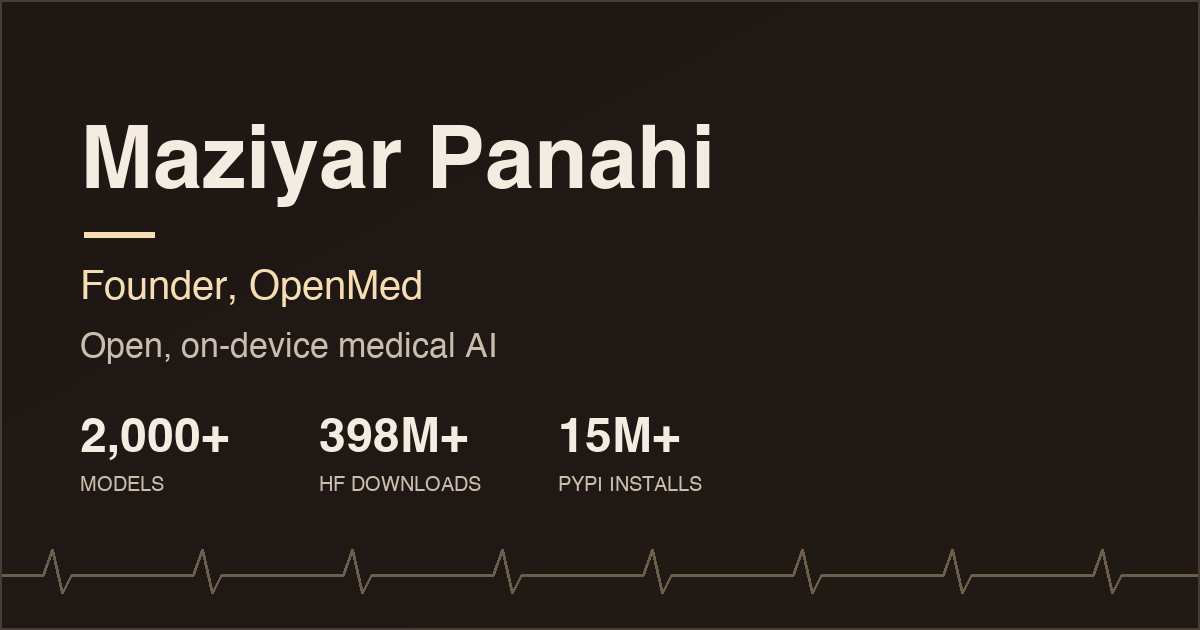
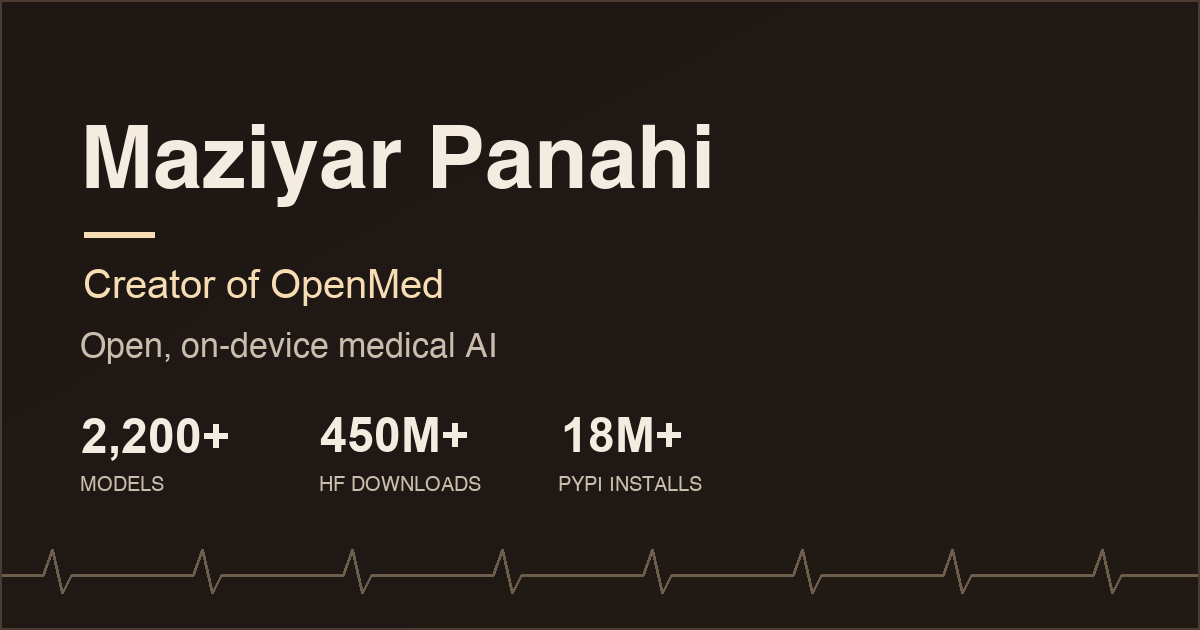
Describe OpenMed as a project I created, not founded
OpenMed is an open-source project with outside contributors, so the site
and profile now say "creator" rather than "founder", and drop the
company-style mission line.

- Site title, meta tags, eyebrow, share card and JSON-LD say "Creator of
  OpenMed"; the JSON-LD credits OpenMed as SoftwareSourceCode with a creator
  rather than listing it as an employer.
- Numbers match the sources as of 8 Oct 2026: 2,200+ models, 450M+ HF
  downloads, 18M+ PyPI installs, 85 contributors, and "10 of 12" datasets as
  in the paper. The language count now uses the README's 42 routes
  (35 model-backed).
- The Ask-AI prompts use the same facts.
- The profile README shows MaziyarPanahi and OpenMed side by side instead of
  "combined ... all authored by me".
- New /llms.txt with the same facts.

diff --git a/site/index.html b/site/index.html
@@ -4,21 +4,21 @@
 <head>
   <meta charset="utf-8" />
   <meta name="viewport" content="width=device-width, initial-scale=1" />
-  <title>Maziyar Panahi | Founder, OpenMed</title>
+  <title>Maziyar Panahi | Creator of OpenMed</title>
   <meta name="description"
-    content="Maziyar Panahi is the founder of OpenMed — open, on-device medical AI: 2,000+ Apache-2.0 clinical models that run in a hospital's own walls, on a Mac, or on an iPhone." />
+    content="Maziyar Panahi created OpenMed — open, on-device medical AI: 2,200+ Apache-2.0 clinical models that run in a hospital's own walls, on a Mac, or on an iPhone." />
   <meta name="theme-color" content="#f6efe6" />
-  <meta property="og:title" content="Maziyar Panahi | Founder, OpenMed" />
+  <meta property="og:title" content="Maziyar Panahi | Creator of OpenMed" />
   <meta property="og:description"
-    content="Founder of OpenMed. Open, on-device medical AI — 2,000+ Apache-2.0 models, 15M+ PyPI installs, from hospital servers to iPhones." />
+    content="Creator of OpenMed. Open, on-device medical AI — 2,200+ Apache-2.0 models, 18M+ PyPI installs, from hospital servers to iPhones." />
   <meta property="og:type" content="website" />
   <meta property="og:url" content="https://maziyarpanahi.com" />
   <meta property="og:image" content="https://maziyarpanahi.com/assets/og.png" />
   <meta name="twitter:card" content="summary_large_image" />
-  <meta name="twitter:title" content="Maziyar Panahi | Founder, OpenMed" />
+  <meta name="twitter:title" content="Maziyar Panahi | Creator of OpenMed" />
   <meta name="twitter:image" content="https://maziyarpanahi.com/assets/og.png" />
   <meta name="twitter:description"
-    content="Founder of OpenMed. Open, on-device medical AI — 2,000+ Apache-2.0 models, 15M+ PyPI installs, from hospital servers to iPhones." />
+    content="Creator of OpenMed. Open, on-device medical AI — 2,200+ Apache-2.0 models, 18M+ PyPI installs, from hospital servers to iPhones." />
   <link rel="canonical" href="https://maziyarpanahi.com" />
   <link rel="icon" href="./favicon.svg" type="image/svg+xml" />
   <link rel="shortcut icon" href="./favicon.svg" type="image/svg+xml" />
@@ -35,22 +35,33 @@
   <script type="application/ld+json">
       {
         "@context": "https://schema.org",
-        "@type": "Person",
-        "name": "Maziyar Panahi",
-        "jobTitle": "Founder, OpenMed",
-        "url": "https://maziyarpanahi.com",
-        "sameAs": [
-          "https://github.com/MaziyarPanahi",
-          "https://huggingface.co/MaziyarPanahi",
-          "https://huggingface.co/OpenMed",
-          "https://www.linkedin.com/in/maziyarpanahi",
-          "https://x.com/MaziyarPanahi",
-          "https://scholar.google.com/citations?user=Uaeq3tMAAAAJ"
-        ],
-        "worksFor": [
-          { "@type": "Organization", "name": "OpenMed", "url": "https://openmed.life" },
-          { "@type": "Organization", "name": "Arcee AI" },
-          { "@type": "Organization", "name": "CNRS" }
+        "@graph": [
+          {
+            "@type": "Person",
+            "@id": "https://maziyarpanahi.com/#person",
+            "name": "Maziyar Panahi",
+            "url": "https://maziyarpanahi.com",
+            "description": "Creator of OpenMed, an open-source project for medical AI.",
+            "sameAs": [
+              "https://github.com/maziyarpanahi",
+              "https://huggingface.co/MaziyarPanahi",
+              "https://www.linkedin.com/in/maziyarpanahi",
+              "https://x.com/MaziyarPanahi",
+              "https://scholar.google.com/citations?user=Uaeq3tMAAAAJ"
+            ],
+            "worksFor": [
+              { "@type": "Organization", "name": "Arcee AI" },
+              { "@type": "Organization", "name": "CNRS" }
+            ]
+          },
+          {
+            "@type": "SoftwareSourceCode",
+            "name": "OpenMed",
+            "url": "https://openmed.life",
+            "codeRepository": "https://github.com/maziyarpanahi/openmed",
+            "license": "https://www.apache.org/licenses/LICENSE-2.0",
+            "creator": { "@id": "https://maziyarpanahi.com/#person" }
+          }
         ]
       }
     </script>
@@ -70,7 +81,7 @@
     </div>
 
     <header class="hero reveal">
-      <p class="eyebrow">Founder, OpenMed</p>
+      <p class="eyebrow">Creator of OpenMed</p>
       <h1>Maziyar Panahi</h1>
 
       <nav class="social-row" aria-label="Social profiles">
@@ -115,9 +126,9 @@
         Building open, on-device medical AI &mdash; OpenMed &middot; Arcee AI &middot; CNRS
       </p>
       <p class="hero-copy">
-        I build OpenMed: open-source medical AI that runs where the data lives &mdash; a hospital's own servers, a
-        Mac, an iPhone. 2,000+ Apache-2.0 models, 398M+ downloads on Hugging Face, and 15M+ installs on PyPI &mdash;
-        up from 4M just three months ago &mdash; with 50+ contributors and zero paid marketing.
+        I created OpenMed: open-source medical AI that runs where the data lives &mdash; a hospital's own servers, a
+        Mac, an iPhone. 2,200+ Apache-2.0 models, 450M+ downloads on Hugging Face, 18M+ installs on PyPI, and 85
+        contributors so far &mdash; with zero paid marketing.
       </p>
       <p class="hero-copy">
         Alongside OpenMed, I work in post-training at Arcee AI &mdash; developing open-weight models in the U.S. and
@@ -169,21 +180,21 @@
       <section class="reveal" id="openmed">
         <h2>OpenMed</h2>
         <p class="section-intro">
-          The open-source standard for clinical AI: 2,000+ Apache-2.0 models for de-identification, clinical NER,
-          coding, and QA &mdash; built to run on-prem, in your VPC, on a Mac, or on an iPhone. 398M+ downloads on
+          Open-source clinical AI: 2,200+ Apache-2.0 models for de-identification, clinical NER,
+          coding, and QA &mdash; built to run on-prem, in your VPC, on a Mac, or on an iPhone. 450M+ downloads on
           Hugging Face, 5,000+ GitHub stars, and the #1 most-referenced organization in Hugging Face's State of
           Open Source report (Spring 2026).
         </p>
         <ul class="initiative-list">
           <li><a href="https://github.com/maziyarpanahi/openmed" target="_blank" rel="noreferrer">openmed on
-              GitHub</a> &mdash; Python package, CLI, and MLX/Swift on-device engine; near-weekly releases, 50+
+              GitHub</a> &mdash; Python package, CLI, and MLX/Swift on-device engine; near-weekly releases, 85
             contributors</li>
           <li><a href="https://huggingface.co/OpenMed" target="_blank" rel="noreferrer">OpenMed on Hugging
               Face</a> &mdash; the model hub</li>
           <li><a href="https://huggingface.co/papers/2508.01630" target="_blank" rel="noreferrer">OpenMed NER</a>
-            &mdash; state-of-the-art on 12 public biomedical benchmarks</li>
+            &mdash; state of the art on 10 of 12 public biomedical NER datasets</li>
           <li><a href="https://github.com/maziyarpanahi/openmed/releases" target="_blank"
-              rel="noreferrer">OpenMed 2.0</a> &mdash; 56 languages, ~51 offline ID validators, and a k-anonymity
+              rel="noreferrer">OpenMed releases</a> &mdash; multilingual PII across 42 language routes (35 model-backed), ~51 offline ID validators, and a k-anonymity
             release-risk workflow that refuses to auto-sign expert determinations</li>
         </ul>
         <p class="section-intro">
@@ -195,8 +206,8 @@
       <section class="reveal" id="openmed-agent">
         <h2>OpenMed Agent</h2>
         <p class="section-intro">
-          The enterprise layer built on the open-source core &mdash; a terminal-native, inspectable clinical AI
-          agent that is privacy-first, reviewer-gated, and running on iPhone. Early access is open at
+          A clinical AI agent built on OpenMed's open models &mdash; terminal-native, inspectable,
+          privacy-first, reviewer-gated, and running on iPhone. Early access is open at
           <a href="https://agent.openmed.life" target="_blank" rel="noreferrer">agent.openmed.life</a>.
         </p>
         <ul class="initiative-list">
@@ -459,14 +470,13 @@
           cloud-architect years at Multimedia University and the University of Malaya.
         </p>
         <p>
-          Before OpenMed, I spent seven years at John Snow Labs leading Spark NLP &mdash; 150M+ downloads and
+          Before OpenMed, from 2019 to 2025, I was at John Snow Labs leading Spark NLP &mdash; 150M+ downloads and
           100,000+ pretrained models and pipelines. Since 2024 I've also been in post-training at Arcee AI: GRPO,
           RL environments, and the INTELLECT-1 and Trinity technical reports.
         </p>
         <p>
-          The mission hasn't moved: build the default open engine for every hospital, pharma company, and
-          public-health agency that needs a secure, sovereign medical-intelligence platform &mdash; and keep the
-          models, the training, and their limits out in the open. The longer version is on
+          What hasn't moved: medical AI should be open, auditable, and able to run inside a hospital's own walls
+          &mdash; with the models, the training, and their limits out in the open. The longer version is on
           <a href="https://www.linkedin.com/in/maziyarpanahi" target="_blank" rel="noreferrer">LinkedIn</a>.
         </p>
       </section>

diff --git a/site/assets/main.js b/site/assets/main.js
@@ -54,10 +54,10 @@ const AI_TARGETS = {
 };
 
 const AI_PROMPTS = {
-  chatgpt: `Give me a deep, structured profile of Maziyar Panahi using his personal website https://maziyarpanahi.com as the primary source, and his Hugging Face https://huggingface.co/MaziyarPanahi, the OpenMed org https://huggingface.co/OpenMed, his GitHub https://github.com/maziyarpanahi/openmed, his LinkedIn https://www.linkedin.com/in/maziyarpanahi, and his X https://x.com/MaziyarPanahi as supporting sources. Cover: 1) Who he is — founder of OpenMed, in post-training at Arcee AI (open-weight models developed in the U.S. and released for everyone), and AI & HPC infrastructure at CNRS, after 16 years in public academia. 2) OpenMed — the open-source standard for clinical AI: 2,000+ Apache-2.0 medical models, 398M+ downloads on Hugging Face, 15M+ PyPI installs, 5,000+ GitHub stars, named the #1 most-referenced organization in Hugging Face's State of Open Source report (Spring 2026), with an on-device MLX/Swift engine that runs on iPhone and Mac. 3) OpenMed Agent — the enterprise layer, a terminal-native, reviewer-gated clinical AI agent in early access at agent.openmed.life. 4) Welna — his consumer iOS app that reads Apple Health data and redacts identifiers on-device. 5) His history — seven years leading Spark NLP to 150M+ downloads at John Snow Labs (2019-2025). 6) His stance — medical AI must be open, auditable, sovereign, and on-device — and what he's building next: reasoning models and multimodal medical AI. Be specific about which fact comes from which source.`,
-  claude: `Read Maziyar Panahi's personal site https://maziyarpanahi.com as the primary source, with his Hugging Face https://huggingface.co/MaziyarPanahi, OpenMed https://huggingface.co/OpenMed, GitHub https://github.com/maziyarpanahi/openmed, LinkedIn https://www.linkedin.com/in/maziyarpanahi, and X https://x.com/MaziyarPanahi as support. First, give me a structured profile: who he is (founder of OpenMed; post-training at Arcee AI; AI/HPC at CNRS), OpenMed and its scale (2,000+ Apache-2.0 models, 398M+ Hugging Face downloads, 15M+ PyPI installs, on-device MLX engine), OpenMed Agent, Welna, and his Spark NLP history. Then — more important — synthesize his thesis that medical AI must be open, auditable, sovereign, and increasingly on-device, with its limits enforced in code (refusal and review gates rather than terms-of-service promises), and give a balanced assessment: what's most compelling about it, the strongest counterarguments, and where the open, on-device approach has the most to prove against closed clinical AI.`,
-  perplexity: `Research Maziyar Panahi and give me a sourced, well-cited profile. Start from his personal site https://maziyarpanahi.com and Hugging Face https://huggingface.co/MaziyarPanahi, then corroborate across the web. Verify and cite: his founding of OpenMed and its scale (2,000+ Apache-2.0 medical models, 398M+ Hugging Face downloads, 15M+ PyPI installs); OpenMed being named the #1 most-referenced organization in Hugging Face's State of Open Source report (Spring 2026); the OpenMed NER paper's state-of-the-art results (arXiv 2508.01630); his post-training work at Arcee AI (INTELLECT-1, Trinity technical reports); his seven years leading the Spark NLP ecosystem to 150M+ downloads; and his AI/HPC infrastructure work at CNRS / ISC-PIF. Link a source for each major claim, and flag anything you can't independently corroborate.`,
-  grok: `Profile Maziyar Panahi (@MaziyarPanahi on X) with an emphasis on what he's doing right now. Use his personal site https://maziyarpanahi.com and Hugging Face https://huggingface.co/MaziyarPanahi for grounding, then use his X timeline to capture his latest posts, the models and tools he's shipping this month, and his current voice on open, on-device medical AI — OpenMed, OpenMed Agent, Welna, and his post-training work at Arcee AI. Give me a short who-he-is, then a "what he's shipping now" section from his recent activity, and the themes he keeps returning to (local-first AI, refusal and review gates in clinical agents, community-driven open source).`,
+  chatgpt: `Give me a deep, structured profile of Maziyar Panahi using his personal website https://maziyarpanahi.com as the primary source, and his Hugging Face https://huggingface.co/MaziyarPanahi, the OpenMed org https://huggingface.co/OpenMed, the OpenMed repository https://github.com/maziyarpanahi/openmed, his LinkedIn https://www.linkedin.com/in/maziyarpanahi, and his X https://x.com/MaziyarPanahi as supporting sources. Cover: 1) Who he is — creator of OpenMed, an open-source medical AI project; in post-training at Arcee AI (open-weight models developed in the U.S. and released for everyone); and AI & HPC infrastructure at CNRS, after 16 years in public academia. 2) OpenMed — open-source clinical AI he started in July 2025: 2,200+ Apache-2.0 medical models, 450M+ downloads on Hugging Face, 18M+ PyPI installs, 85 contributors, with an on-device MLX/Swift engine that runs on iPhone and Mac. 3) OpenMed Agent — a terminal-native, reviewer-gated clinical AI agent built on OpenMed's open models, in early access at agent.openmed.life. 4) Welna — his consumer iOS app that reads Apple Health data and redacts identifiers on-device. 5) His history — leading Spark NLP at John Snow Labs (2019–2025). 6) His stance — medical AI must be open, auditable, sovereign, and on-device — and what OpenMed is building next: reasoning models and multimodal medical AI. Be specific about which fact comes from which source.`,
+  claude: `Read Maziyar Panahi's personal site https://maziyarpanahi.com as the primary source, with his Hugging Face https://huggingface.co/MaziyarPanahi, OpenMed https://huggingface.co/OpenMed, GitHub https://github.com/maziyarpanahi/openmed, LinkedIn https://www.linkedin.com/in/maziyarpanahi, and X https://x.com/MaziyarPanahi as support. First, give me a structured profile: who he is (creator of OpenMed, an open-source project; post-training at Arcee AI; AI/HPC at CNRS), OpenMed and its scale (2,200+ Apache-2.0 models, 450M+ Hugging Face downloads, 18M+ PyPI installs, 85 contributors, on-device MLX engine), OpenMed Agent, Welna, and his Spark NLP history. Then — more important — synthesize his thesis that medical AI must be open, auditable, sovereign, and increasingly on-device, with its limits enforced in code (refusal and review gates rather than terms-of-service promises), and give a balanced assessment: what's most compelling about it, the strongest counterarguments, and where the open, on-device approach has the most to prove against closed clinical AI.`,
+  perplexity: `Research Maziyar Panahi and give me a sourced, well-cited profile. Start from his personal site https://maziyarpanahi.com and Hugging Face https://huggingface.co/MaziyarPanahi, then corroborate across the web. Verify and cite: that he created OpenMed, an open-source medical AI project, and its scale (2,200+ Apache-2.0 medical models, 450M+ Hugging Face downloads, 18M+ PyPI installs, 85 GitHub contributors); OpenMed's ranking in Hugging Face's State of Open Source report (Spring 2026); the OpenMed NER paper's results (state of the art on 10 of 12 public biomedical NER datasets, arXiv 2508.01630); his post-training work at Arcee AI (INTELLECT-1, Trinity technical reports); his years leading Spark NLP at John Snow Labs (2019–2025); and his AI/HPC infrastructure work at CNRS / ISC-PIF. Link a source for each major claim, and flag anything you can't independently corroborate.`,
+  grok: `Profile Maziyar Panahi (@MaziyarPanahi on X) with an emphasis on what he's doing right now. Use his personal site https://maziyarpanahi.com and Hugging Face https://huggingface.co/MaziyarPanahi for grounding, then use his X timeline to capture his latest posts, the models and tools he's shipping this month, and his current voice on open, on-device medical AI — OpenMed (the open-source project he created), OpenMed Agent, Welna, and his post-training work at Arcee AI. Give me a short who-he-is, then a "what he's shipping now" section from his recent activity, and the themes he keeps returning to (local-first AI, refusal and review gates in clinical agents, community-driven open source).`,
 };
 
 document.querySelectorAll("a[data-ai]").forEach((link) => {

diff --git a/scripts/render_readme.py b/scripts/render_readme.py
@@ -19,6 +19,8 @@ import sys
 from datetime import datetime
 from pathlib import Path
 
+from fetch_hf_stats import comma, human
+
 START = "<!-- HF-STATS:START -->"
 END = "<!-- HF-STATS:END -->"
 
@@ -39,22 +41,38 @@ def block(data: dict) -> str:
         for model in data["top_models"]
     )
 
-    names = [f"[{a}](https://huggingface.co/{a})" for a in data["accounts"]]
-    accounts = " and ".join([", ".join(names[:-1]), names[-1]] if len(names) > 2 else names)
+    # One column per account, so the personal namespace and the OpenMed org -
+    # an open-source project with its own contributors - are never summed.
+    accounts = data["accounts"]
+    per = data["per_account"]
+
+    def row(label: str, key: str, fmt, bold: bool = False) -> str:
+        cells = [fmt(per[a][key]) for a in accounts]
+        if bold:
+            cells = [f"**{c}**" for c in cells]
+        return f"| **{label}** | " + " | ".join(cells) + " |"
+
+    header = "| 🤗 Hugging Face | " + " | ".join(
+        f"[{a}](https://huggingface.co/{a})" for a in accounts
+    ) + " |"
+    align = "| --- | " + " | ".join("---:" for _ in accounts) + " |"
+    table = "\n".join(
+        [
+            header,
+            align,
+            row("Models published", "models", comma),
+            row("Datasets published", "datasets", comma),
+            row("Downloads, all time", "downloads_all_time", human, bold=True),
+            row("Downloads, last 30 days", "downloads_30d", human),
+        ]
+    )
 
     return f"""<!-- HF-STATS:START -->
 <!-- Generated by scripts/render_readme.py - edit that, not this. -->
 
-| 🤗 Hugging Face | |
-| --- | --- |
-| **Models published** | {display['models']} |
-| **Datasets published** | {display['datasets']} |
-| **Downloads, all time** | **{display['downloads_all_time']}** |
-| **Downloads, last 30 days** | {display['downloads_30d']} |
-| **Followers** | {display['followers']} |
-| **Likes received** | {display['likes']} |
+{table}
 
-<sub>Combined across {accounts}, all authored by me.</sub>
+<sub>{display['followers']} followers · {display['likes']} likes received across both · [OpenMed](https://openmed.life/) is an open-source project I created, built in the open with its contributors.</sub>
 
 **Most downloaded, all time**
 

diff --git a/scripts/fetch_hf_stats.py b/scripts/fetch_hf_stats.py
@@ -1,9 +1,11 @@
 #!/usr/bin/env python3
 """Fetch Hugging Face Hub stats and write them to metrics/hf.json.
 
-Figures are the COMBINED total across every account in ACCOUNTS - the personal
-account and the OpenMed org - because the models are authored by the same
-person. Downloads are reported all-time, not the API's rolling 30-day window.
+Figures are kept per account in ACCOUNTS - the personal account and the
+OpenMed org - and also summed into combined totals for the header banner. The
+README shows the accounts side by side, because OpenMed is an open-source
+project with its own contributors. Downloads are reported all-time, not the
+API's rolling 30-day window.
 
 Standard library only - no pip install needed in CI.
 

diff --git a/README.md b/README.md
@@ -14,26 +14,24 @@
 
 ### Hi! 👋
 
-I am building **OpenMed**. My mission is to leverage Europe's leading AI to build the default engine for every hospital, pharma giant, and public health agency that requires a secure and powerful medical intelligence platform. I specialize in turning cutting-edge scientific research into robust, compliant, and commercially successful enterprise solutions.
+I created **[OpenMed](https://openmed.life/)**: open-source medical AI that runs where the data lives — a hospital's own servers, a Mac, an iPhone. 2,200+ Apache-2.0 models, built in the open with 85 contributors so far.
 
-- ⚕ **Now** — Founder of [OpenMed](https://openmed.life/), open and sovereign medical AI
-- 🔬 **Also** — AI Platform Leader at ISC-PIF (CNRS), Paris · 14+ years in public research
+- ⚕ **Creator** of [OpenMed](https://openmed.life/), open and sovereign medical AI
+- 🔬 **Also** — AI & HPC infrastructure at ISC-PIF (CNRS), Paris
 - 🤗 **Publishing** — open models and datasets on [Hugging Face](https://huggingface.co/MaziyarPanahi)
 - 💬 **Ask me about** medical NLP, open-weight models, HPC, and shipping AI into regulated environments
 
 <!-- HF-STATS:START -->
 <!-- Generated by scripts/render_readme.py - edit that, not this. -->
 
-| 🤗 Hugging Face | |
-| --- | --- |
-| **Models published** | 5,094 |
-| **Datasets published** | 79 |
-| **Downloads, all time** | **874M** |
-| **Downloads, last 30 days** | 45.5M |
-| **Followers** | 5,845 |
-| **Likes received** | 1,571 |
+| 🤗 Hugging Face | [MaziyarPanahi](https://huggingface.co/MaziyarPanahi) | [OpenMed](https://huggingface.co/OpenMed) |
+| --- | ---: | ---: |
+| **Models published** | 2,817 | 2,277 |
+| **Datasets published** | 53 | 26 |
+| **Downloads, all time** | **408M** | **465M** |
+| **Downloads, last 30 days** | 8.6M | 37M |
 
-<sub>Combined across [MaziyarPanahi](https://huggingface.co/MaziyarPanahi) and [OpenMed](https://huggingface.co/OpenMed), all authored by me.</sub>
+<sub>5,845 followers · 1,571 likes received across both · [OpenMed](https://openmed.life/) is an open-source project I created, built in the open with its contributors.</sub>
 
 **Most downloaded, all time**
 

diff --git a/SETUP.md b/SETUP.md
@@ -20,11 +20,13 @@ which, so future-you edits the right file.
 
 ## What the numbers count
 
-Hugging Face figures are the **combined total across both accounts** —
-[MaziyarPanahi](https://huggingface.co/MaziyarPanahi) (2,816 models) and the
-[OpenMed](https://huggingface.co/OpenMed) org (2,271 models) — because the same
-person authored all of them. To add or drop an account, edit `ACCOUNTS` at the
-top of `scripts/fetch_hf_stats.py`; everything downstream follows.
+Hugging Face figures are shown **per account, side by side** in the README —
+[MaziyarPanahi](https://huggingface.co/MaziyarPanahi) and the
+[OpenMed](https://huggingface.co/OpenMed) org — because OpenMed is an
+open-source project with its own contributors. The header banner still shows
+the combined totals, which `metrics/hf.json` keeps alongside the per-account
+figures. To add or drop an account, edit `ACCOUNTS` at the top of
+`scripts/fetch_hf_stats.py`; everything downstream follows.
 
 Downloads are reported **all time**, not the API's default rolling 30-day
 window. The Hub only exposes those two windows — there is no "last 12 months"
